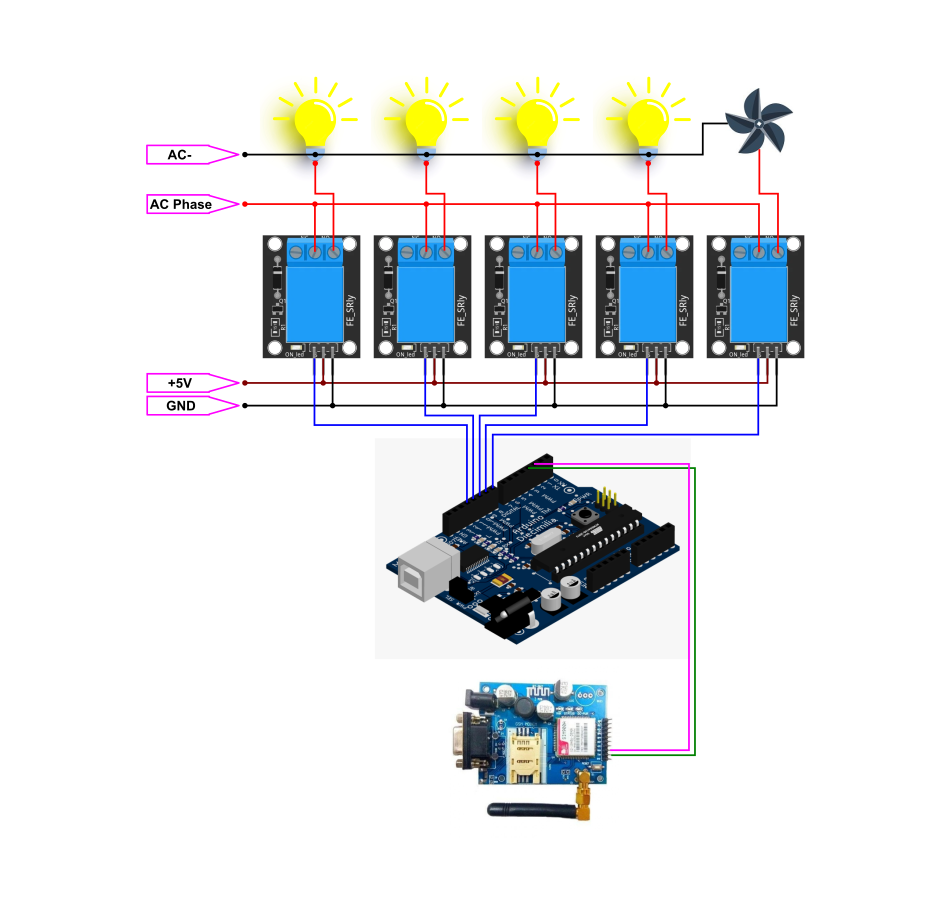
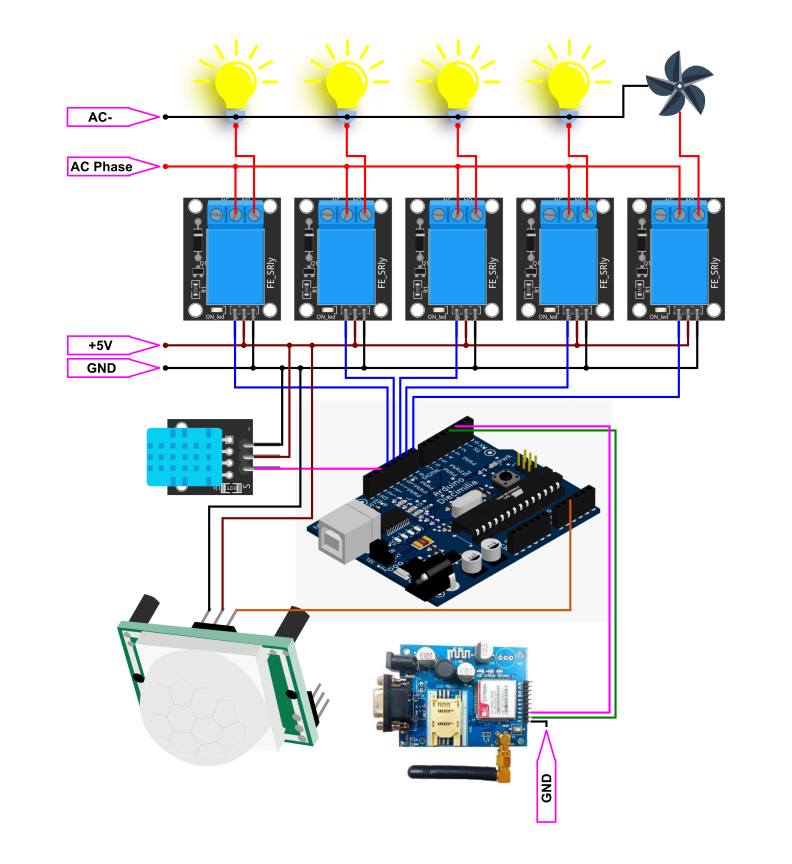
Added some images of device in Readme.md

Changed region(s): [[0.0606, 0.0312, 0.9394, 0.9375], [0.2121, 0.7812, 0.303, 0.875]]

diff --git a/README.md b/README.md
@@ -1,21 +1,67 @@
 # <p align="center">GSM based IOT device programme</p>
-***Smart Home Project***
+***Smart Portable Electric Board***
 
 ```
 Pin Description :-
-    1. Rlay 1 (Bulb 1) --> 13
-    2. Rlay 2 (Bulb 2) --> 12
-    3. Rlay 3 (Bulb 3) --> 11
-    4. Rlay 4 (Bulb 4) --> 10
-    5. Rlay 5 (fan 1 ) --> 4
-    6. Rx(Arduino)     --> 3
-    7. Tx(Arduino)     --> 2
+    1. Rlay 1 (Bulb 1) --> 4
+    2. Rlay 2 (Bulb 2) --> 5
+    3. Rlay 3 (Bulb 3) --> 6
+    4. Rlay 4 (fan 1 ) --> 7
+    5. Rx(Arduino)     --> 3
+    6. Tx(Arduino)     --> 2
+    7. Temperature pin --> 12
+    8. Stair Led       --> 13
+    9. PIR Pin         --> A2
+    10. Mode 1         --> 11
+    11. Mode 2         --> 10
+    12. Mode 3         --> 9
+    13. Mode 4         --> 8
 ```
 **Block Diagram**
-<img src="./block_diagram.png" alt="" style="height:40rem;">
 
-**Schematic**
-<img src="./schematic.jpg" alt="" style="height:50rem;">
+<img src="./block_diagram.png" alt="" style="height:40%;">
+
+<!-- **Schematic** -->
+
+<!-- <img src="./schematic.jpg" alt="" style="height:50rem;"> -->
+**Images**
+<div class="row">
+  <div class="column">
+    <img src="img1.jpg" alt="Snow" style="width:100%">
+  </div>
+  <div class="column">
+    <img src="img2.jpg" alt="Forest" style="width:100%">
+  </div>
+  <div class="column">
+    <img src="img3.jpg" alt="Mountains" style="width:100%">
+  </div>
+</div>
+
+<style>
+* {
+  box-sizing: border-box;
+}
+
+.column {
+  float: left;
+  width: 33.33%;
+  padding: 5px;
+}
+
+/* Clearfix (clear floats) */
+.row::after {
+  content: "";
+  clear: both;
+  display: table;
+}
+
+/* Responsive layout - makes the three columns stack on top of each other instead of next to each other */
+@media screen and (max-width: 500px) {
+  .column {
+    width: 100%;
+  }
+}
+</style>
 
 ### Commands for various operations (Send SMS)
 | Sl No. | Command     |     Description      |
@@ -32,3 +78,5 @@ Pin Description :-
 |   10   | f1off       | Turn off fan  1      |
 |   11   | all on      | Turn on all appliance|
 |   12   | all off     | Turn off all         |
+|   13   | pir=on      | Activate PIR sensor  |
+|   14   | pir=off     | Deactivate PIR sensor|
